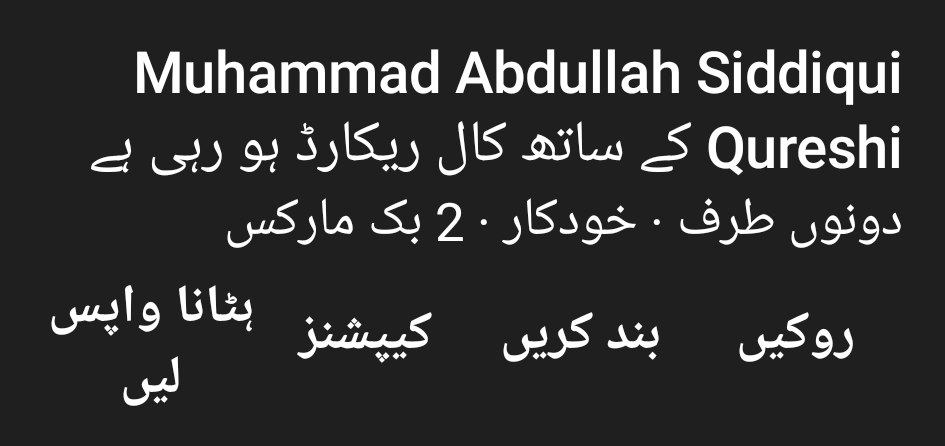
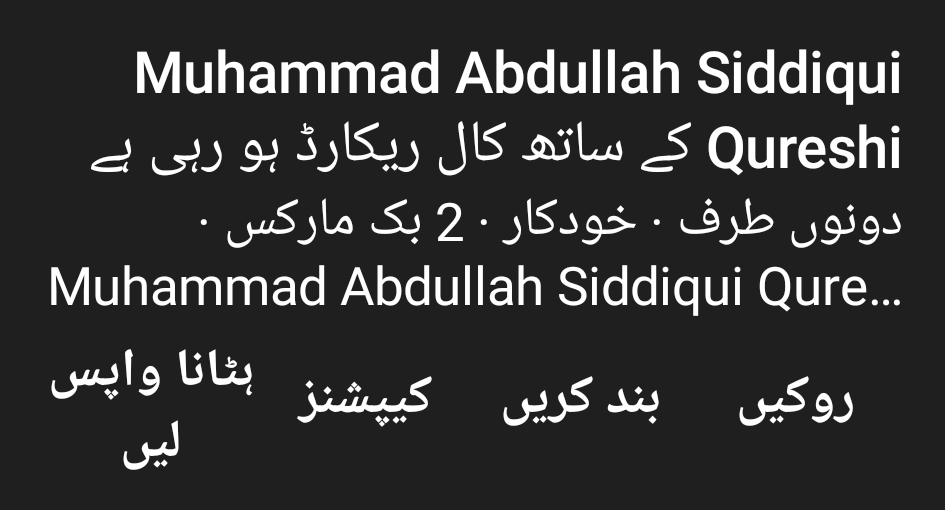
P-104 test at the notification's tallest: a two-line detail and a two-line button too
The 252 dp check now covers the worst case: a two-line title, a two-line
detail (a long project name) and a button of two lines, in Urdu at Largest
with a 1.3 phone font, light and dark. Nothing is clipped; the pictures show it.

diff --git a/mobile/app/src/test/java/com/echoledger/mobile/notify/RecordingNoticeShotsTest.kt b/mobile/app/src/test/java/com/echoledger/mobile/notify/RecordingNoticeShotsTest.kt
@@ -35,8 +35,8 @@ class RecordingNoticeShotsTest : AppTest() {
     }
 
     /** The expanded recording view as the shade lays it out, the width of a phone's notification. */
-    private fun drawn(title: String = "Recording call with Omar"): View {
-        val n = Notifications.recording(app, title, "Both sides · auto · 2 bookmarks", discarding = true)
+    private fun drawn(title: String = "Recording call with Omar", detail: String = "Both sides · auto · 2 bookmarks"): View {
+        val n = Notifications.recording(app, title, detail, discarding = true)
         val activity = buildActivity(androidx.activity.ComponentActivity::class.java).setup().get()
         val parent = FrameLayout(activity)
         val view = n.bigContentView.apply(activity, parent)
@@ -96,7 +96,8 @@ class RecordingNoticeShotsTest : AppTest() {
 
     /**
      * P-104: a long title takes a second line instead of an ellipsis (the shade and this shot drew it differently), and
-     * the expanded view stays within the 252 dp Android gives a custom notification's content, nothing clipped.
+     * the expanded view stays within the 252 dp Android gives a custom notification's content, nothing clipped, at its
+     * tallest: a two-line title, a two-line detail and buttons of two lines.
      */
     @Test
     fun aLongTitleTakesTwoLinesUncutAndTheViewStaysWithinTheShadesLimit() {
@@ -105,10 +106,18 @@ class RecordingNoticeShotsTest : AppTest() {
         val density = app.resources.displayMetrics.density
         for (dark in listOf(false, true)) {
             RuntimeEnvironment.setQualifiers(if (dark) "+night" else "+notnight")
-            val view = drawn("Recording call with Muhammad Abdullah Siddiqui Qureshi")
+            val view = drawn(
+                "Recording call with Muhammad Abdullah Siddiqui Qureshi",
+                "Both sides · auto · 2 bookmarks · Muhammad Abdullah Siddiqui Qureshi Textiles"
+            )
             val title = view.findViewById<TextView>(R.id.rec_title).layout
             assertEquals("the title's lines", 2, title.lineCount)
             assertEquals("the title is cut", 0, title.getEllipsisCount(title.lineCount - 1))
+            // The worst case: the detail on two lines too, and a button of two lines.
+            assertEquals("the detail's lines", 2, view.findViewById<TextView>(R.id.rec_detail).layout.lineCount)
+            val buttonLines = listOf(R.id.rec_pause, R.id.rec_stop, R.id.rec_captions, R.id.rec_discard)
+                .maxOf { view.findViewById<TextView>(it).layout.lineCount }
+            assertEquals("the tallest button's lines", 2, buttonLines)
             assertNothingClipped(view)
             val content = view.findViewById<View>(R.id.rec_root).height / density
             assertTrue("the view is $content dp", content <= 252f)
